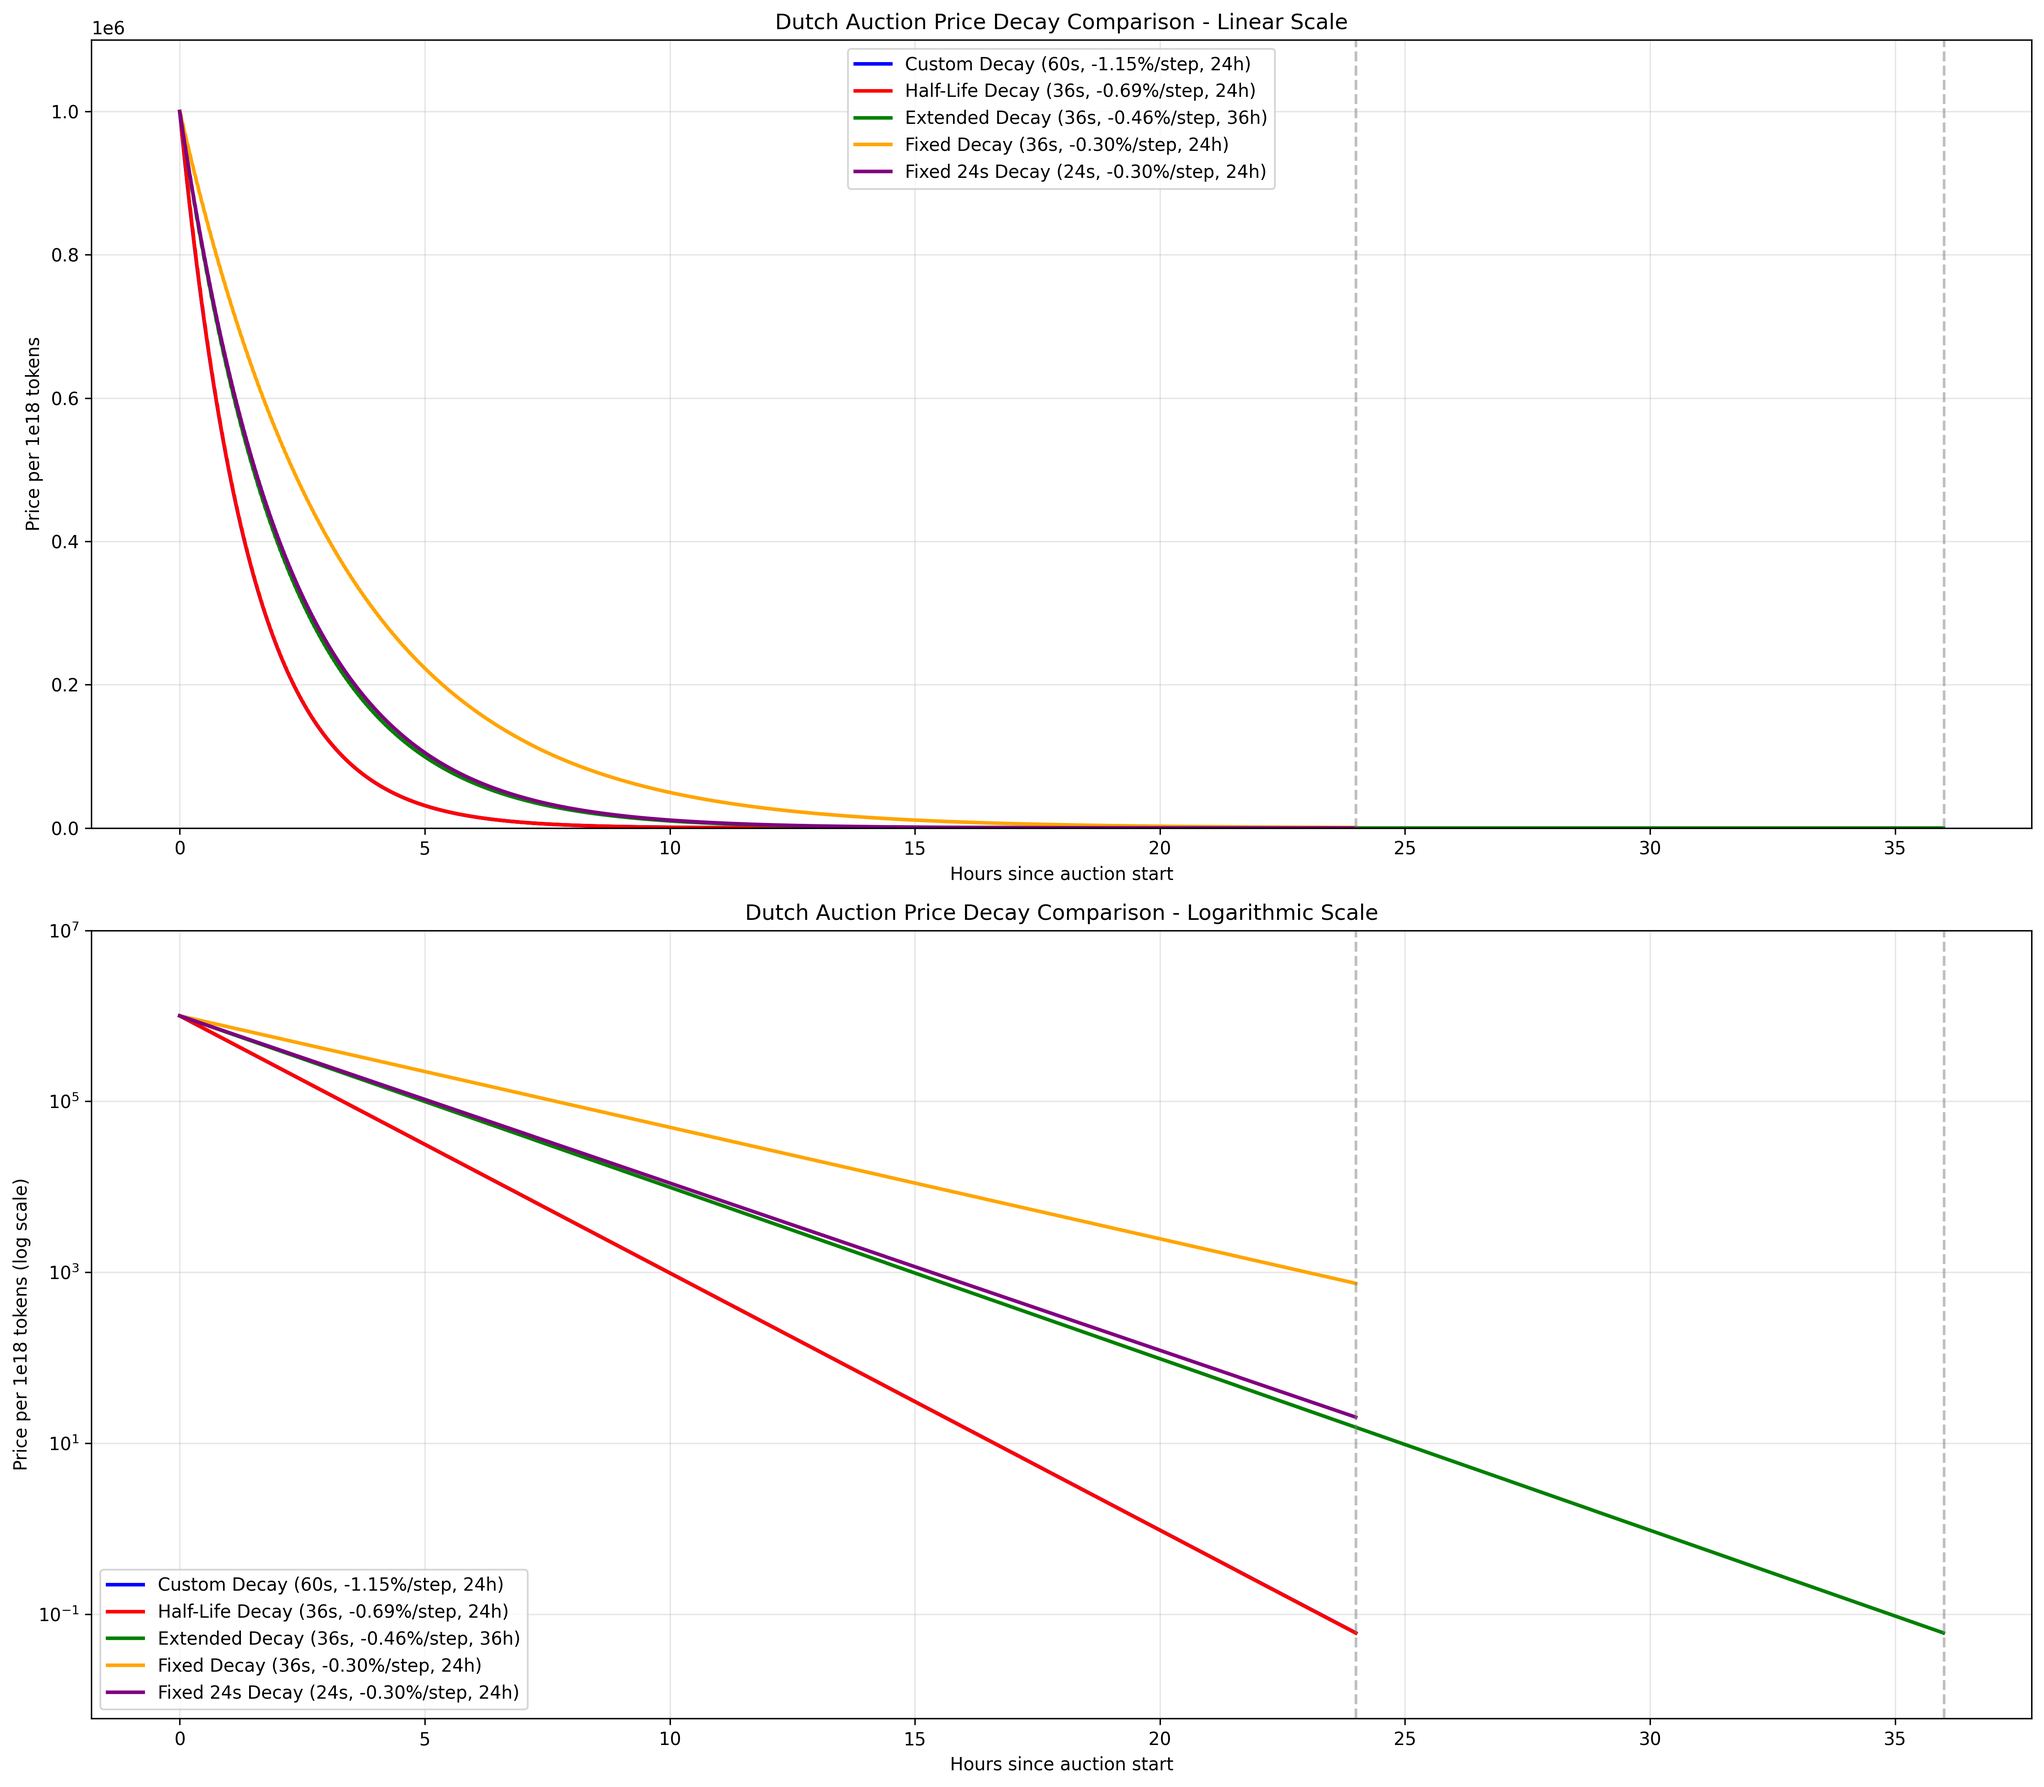
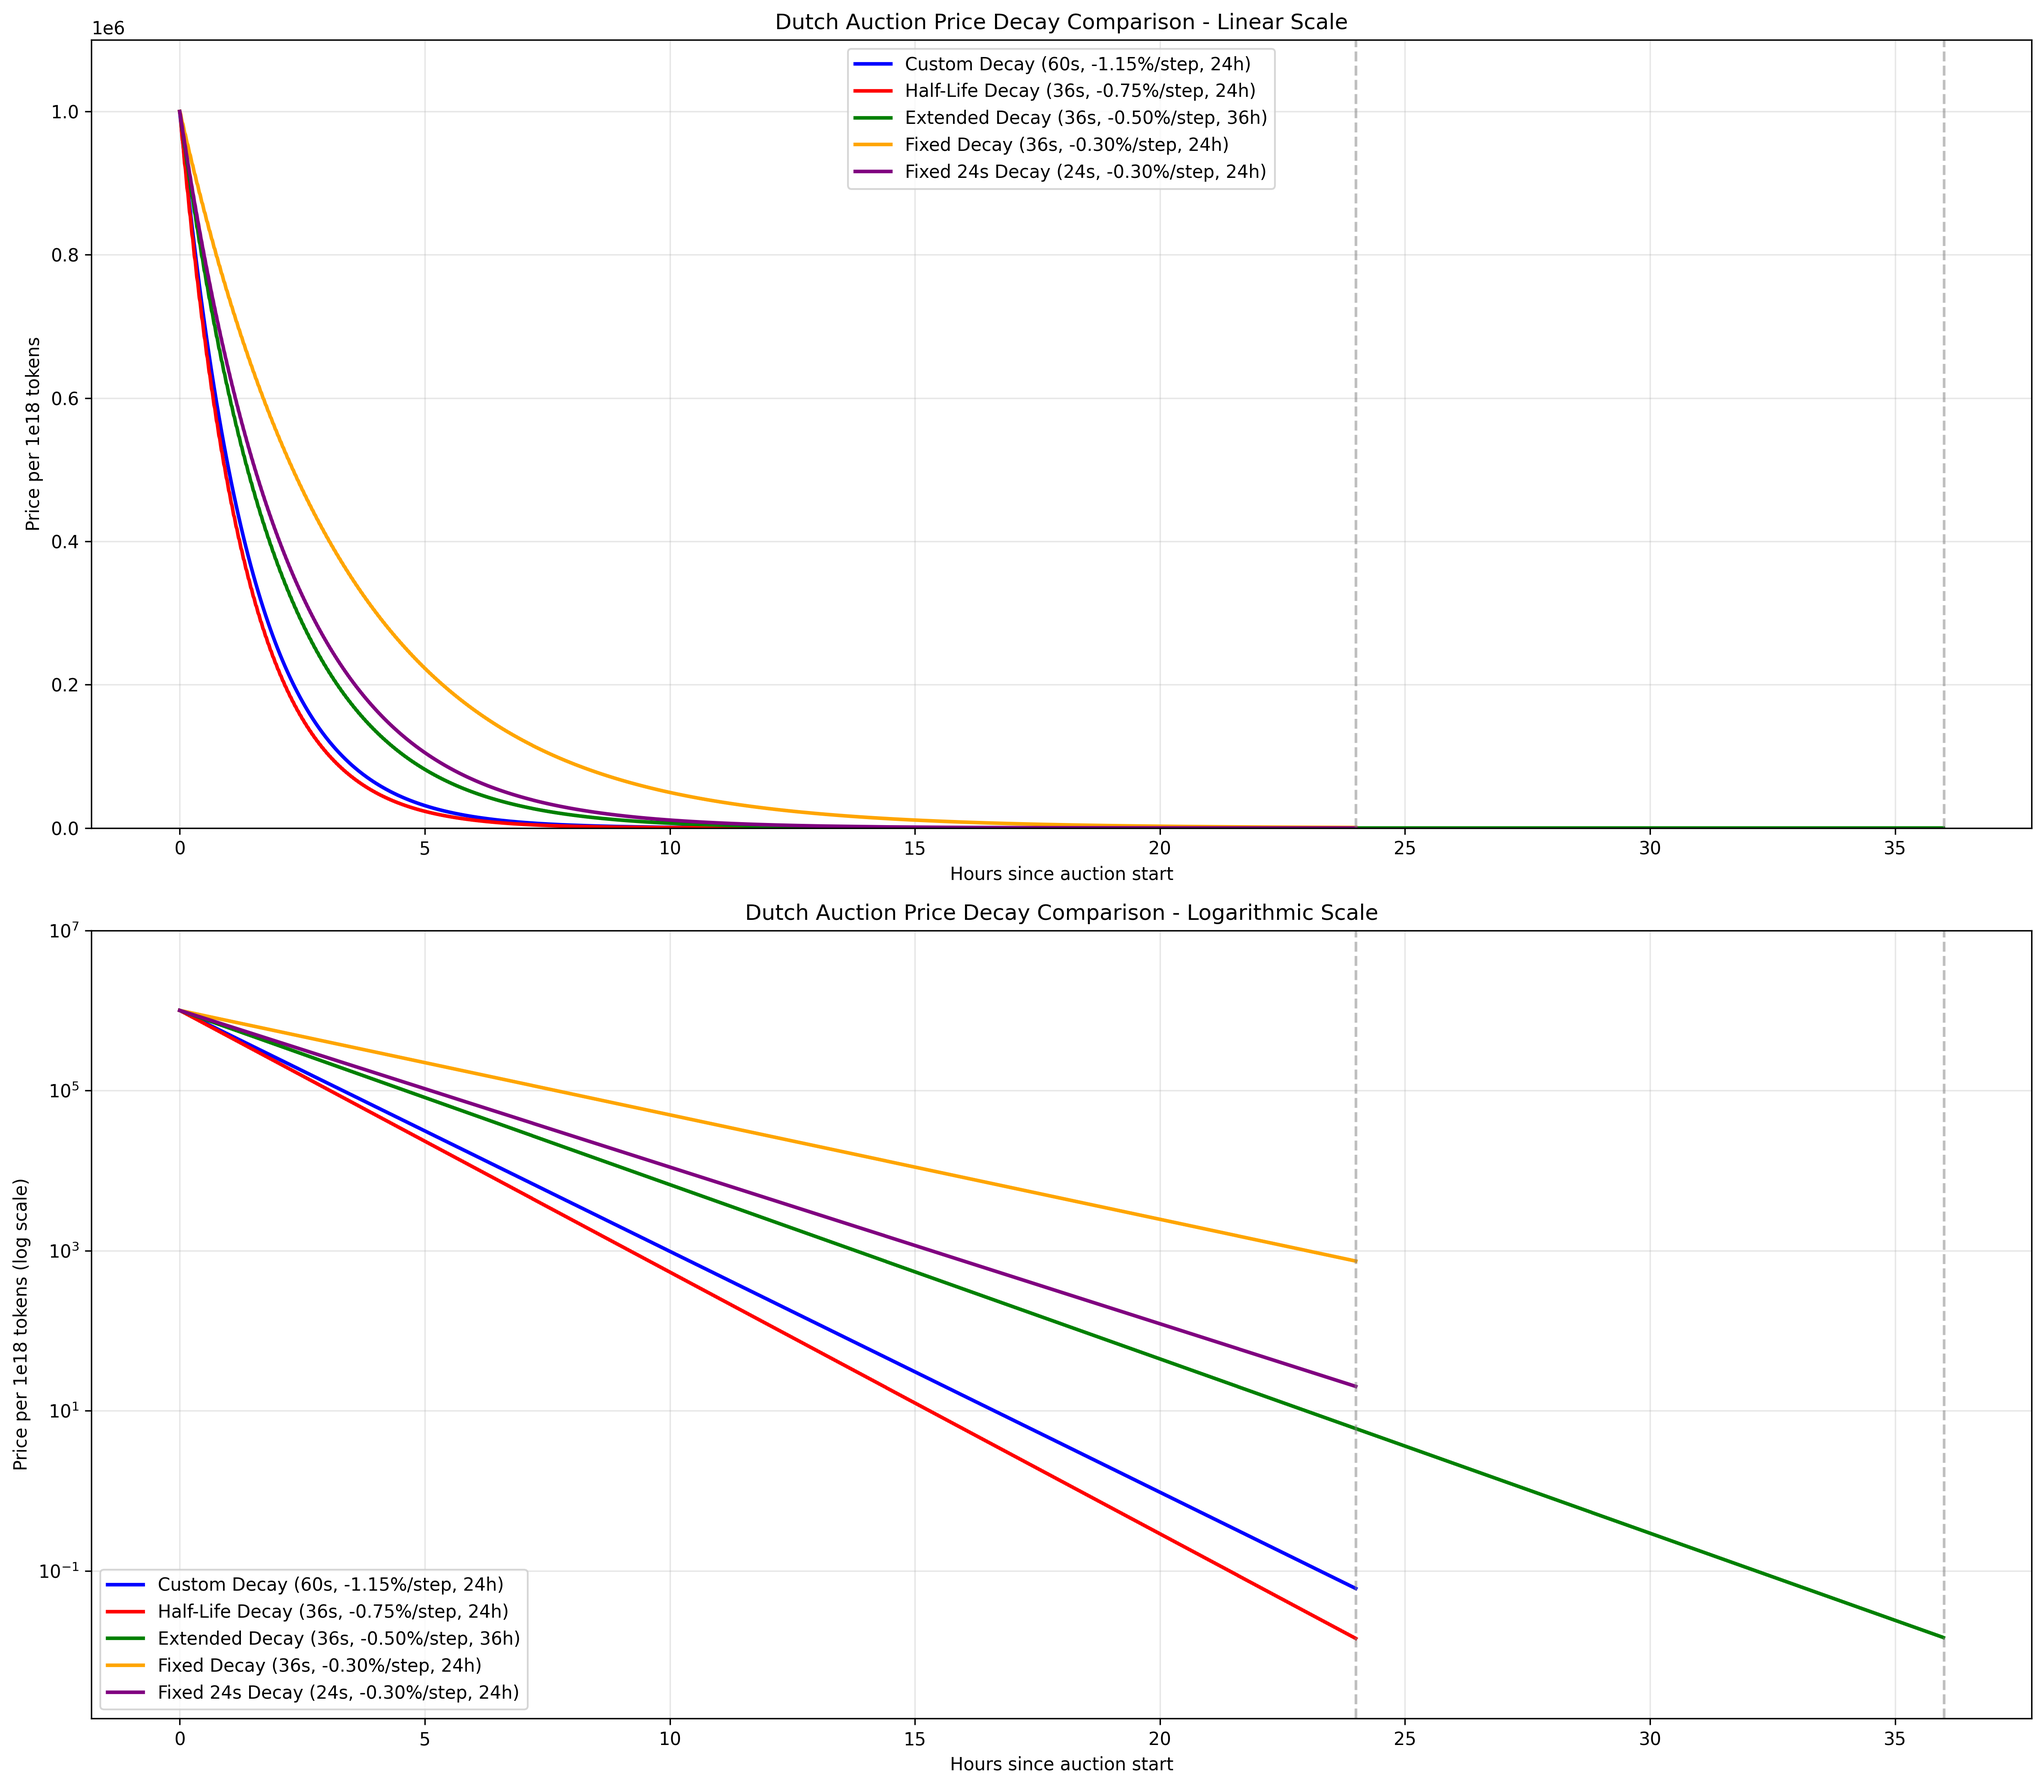
more clear decay rates

diff --git a/scripts/analyze_price_decay.py b/scripts/analyze_price_decay.py
@@ -34,7 +34,7 @@ def calculate_price_over_time():
     # Auction 1: Custom test decay (configurable) - moved to first position
     custom_auction = ParameterizedAuction.deploy(
         60,                                    # 60 seconds interval
-        0.988514020352896135_356867505 * 10 ** 27,  # 0.988 in RAY (1% decay per step)
+        0.988514020352896135_356867505 * 10 ** 27,
         0,                                     # dynamic pricing
         {'from': deployer}
     )
@@ -42,7 +42,7 @@ def calculate_price_over_time():
     # Auction 2: Half-Life Decay (1-hour half-life, 36s steps)
     half_life_auction = ParameterizedAuction.deploy(
         36,                                    # 36 seconds interval
-        993092495437035901533210216,          # 0.5^(1/100) in RAY
+        0.9925 * 10 ** 27,
         0,                                     # dynamic pricing
         {'from': deployer}
     )
@@ -50,7 +50,7 @@ def calculate_price_over_time():
     # Auction 3: Extended Decay (36h duration, same final price as 24h)
     extended_auction = ParameterizedAuction.deploy(
         36,                                    # 36 seconds interval  
-        995389679103229139420708864,          # 0.5^(1/150) in RAY
+        0.995 * 10 ** 27,
         0,                                     # dynamic pricing
         {'from': deployer}
     )
@@ -58,7 +58,7 @@ def calculate_price_over_time():
     # Auction 4: Fixed 0.2% Decay with 2400 starting price (36s intervals)
     fixed_auction = ParameterizedAuction.deploy(
         36,                                    # 36 seconds interval
-        997_000_000_000_000_000_000_000_000,  # 0.998 in RAY (0.3% decay)
+        0.997 * 10 ** 27,
         0,                   
         {'from': deployer}
     )
@@ -378,7 +378,7 @@ def calculate_price_over_time():
     custom_starting = get_starting_price(custom_prices)
     
     # Create the table
-    table = Table(title="🔨 Dutch Auction Parameters & 24h Results (Blockchain Deployed)", title_style="bold magenta")
+    table = Table(title="🔨 Dutch Auction Parameters & 24h Results (Fork Deploy Sim)", title_style="bold magenta")
     
     table.add_column("#", style="cyan", no_wrap=True)
     table.add_column("Duration", style="magenta")
